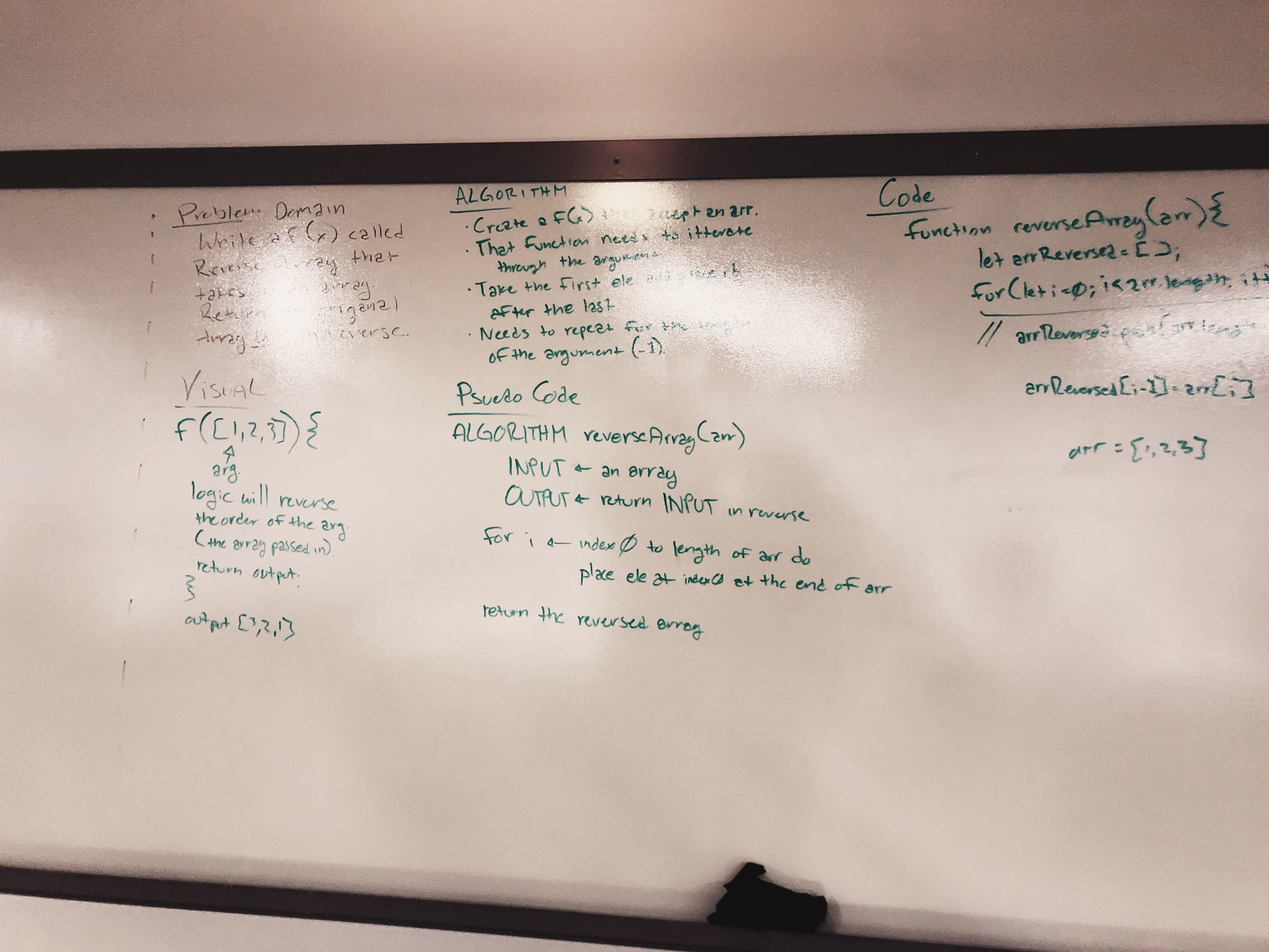
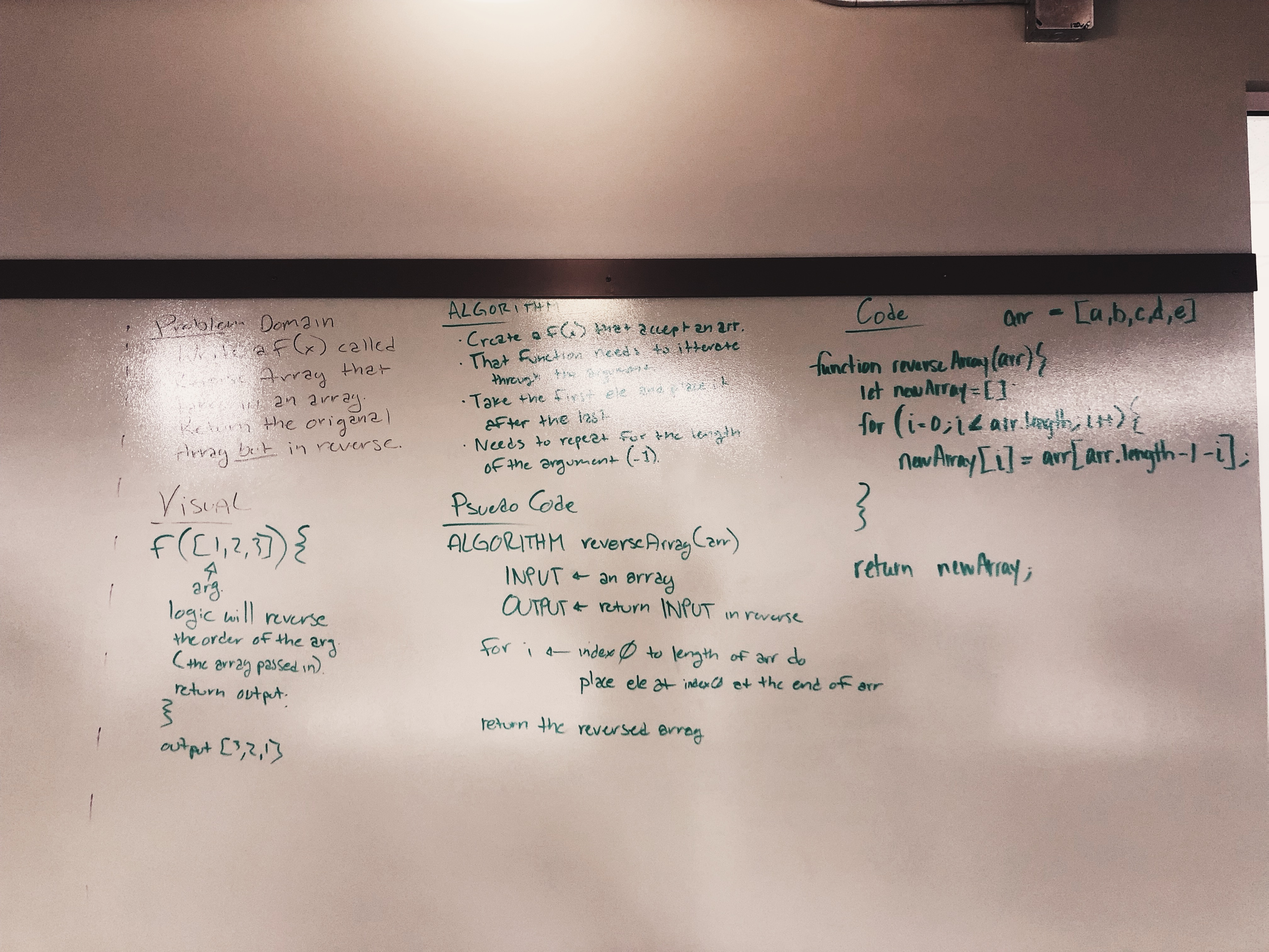
I finished the white boarding challenge as well as the ReadMe

diff --git a/array-reverse.js b/array-reverse.js
@@ -1,0 +1,9 @@
+'use strict';
+
+function reverseArray(arr){
+  let newArray = [];
+  for (i = 0; i < arr.length; i++){
+    newArray[i] = arr[arr.length - 1 - i];
+  }
+  return newArray;
+}
